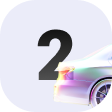
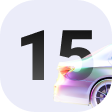
fix

Changed region(s): [[0.1875, 0.2411, 0.8304, 0.7232]]

diff --git a/src/App.tsx b/src/App.tsx
@@ -7,7 +7,6 @@ import { useEffect, useState } from 'react';
 import alfaOnly from './assets/alfa_only.png';
 import rest_12 from './assets/rest_12.png';
 import taxi_2 from './assets/taxi.png';
-import toggle from './assets/toggle.png';
 import { LS, LSKeys } from './ls';
 import { appSt } from './style.css';
 import { ThxLayout } from './thx/ThxLayout';
@@ -39,12 +38,12 @@ export const App = () => {
   return (
     <>
       <div className={appSt.container}>
-        <img src={alfaOnly} width={158} height={33} className={appSt.img} />
-        <Typography.Text style={{ marginBottom: '1rem' }} view="primary-medium">
-          Перейдите на новый уровень
+        <img src={alfaOnly} width={158} height={38} className={appSt.img} />
+        <Typography.Text style={{ marginBottom: '3rem', textAlign: 'center' }} view="primary-medium">
+          Переведите деньги
+          <br />
+          на счета в Альфа-Банк
         </Typography.Text>
-
-        <img src={toggle} width={132} height={85} className={appSt.img} />
 
         <div className={appSt.switcher}>
           <div
@@ -74,10 +73,10 @@ export const App = () => {
             <PureCell.Content>
               <PureCell.Main>
                 <Typography.Text view="primary-medium" tag="p" defaultMargins={false}>
-                  12 визитов в бизнес-залы и рестораны в год
+                  Безлимитные посещения бизнес-залов и ресторанов
                 </Typography.Text>
                 <Typography.Text view="primary-small" color="secondary">
-                  Не чаще 2 раз в месяц
+                  В любое время
                 </Typography.Text>
               </PureCell.Main>
             </PureCell.Content>
@@ -89,10 +88,10 @@ export const App = () => {
             <PureCell.Content>
               <PureCell.Main>
                 <Typography.Text view="primary-medium" tag="p" defaultMargins={false}>
-                  2 поездки
+                  15 поездок на такси в год
                 </Typography.Text>
-                <Typography.Text view="primary-medium" tag="p" defaultMargins={false}>
-                  на такси в год
+                <Typography.Text view="primary-small" color="secondary">
+                  Не чаще 3 раз в месяц
                 </Typography.Text>
               </PureCell.Main>
             </PureCell.Content>
@@ -109,7 +108,7 @@ export const App = () => {
           Подробнее об условиях
         </Typography.Text>
       </div>
-      <Gap size={96} />
+      <Gap size={256} />
 
       <div className={appSt.bottomBtn}>
         <ButtonMobile
@@ -119,16 +118,24 @@ export const App = () => {
           view="primary"
           size={72}
           onClick={submit}
-          hint="Подключить"
+          hint="При остатке на счетах от* 6 млн ₽"
         >
           {selected === 'На 1 месяц' ? (
-            '5 000 ₽ в месяц'
+            'Подключить за 10 000 ₽ в мес.'
           ) : (
             <>
-              <s>60 000 ₽</s> <span style={{ color: '#FFD57B' }}>48 000 ₽ на год</span>
+              <s>120 000 ₽</s> <span style={{ color: '#FFD57B' }}>96 000 ₽ на год</span>
             </>
           )}
         </ButtonMobile>
+        <Typography.Text
+          view="primary-small"
+          tag="p"
+          defaultMargins={false}
+          style={{ color: '#51567D', textAlign: 'center' }}
+        >
+          * При остатке на счетах в Альфа-банке от 6 000 000 ₽
+        </Typography.Text>
       </div>
 
       <BottomSheet
@@ -138,7 +145,7 @@ export const App = () => {
         }}
         contentClassName={appSt.btmContent}
         actionButton={
-          <ButtonMobile block view="primary" onClick={() => setShowBs(false)}>
+          <ButtonMobile shape="rounded" block view="primary" onClick={() => setShowBs(false)}>
             Понятно
           </ButtonMobile>
         }

diff --git a/src/style.css.ts b/src/style.css.ts
@@ -7,6 +7,10 @@ const bottomBtn = style({
   width: '100%',
   padding: '12px',
   bottom: 0,
+  display: 'flex',
+  flexDirection: 'column',
+  gap: '1rem',
+  alignItems: 'center',
 });
 
 const btn = style({
@@ -25,7 +29,7 @@ const box = style({
   display: 'flex',
   padding: '12px',
   flexDirection: 'column',
-  gap: '12px',
+  gap: '24px',
   borderRadius: '2rem',
   backgroundColor: '#fff',
 });
